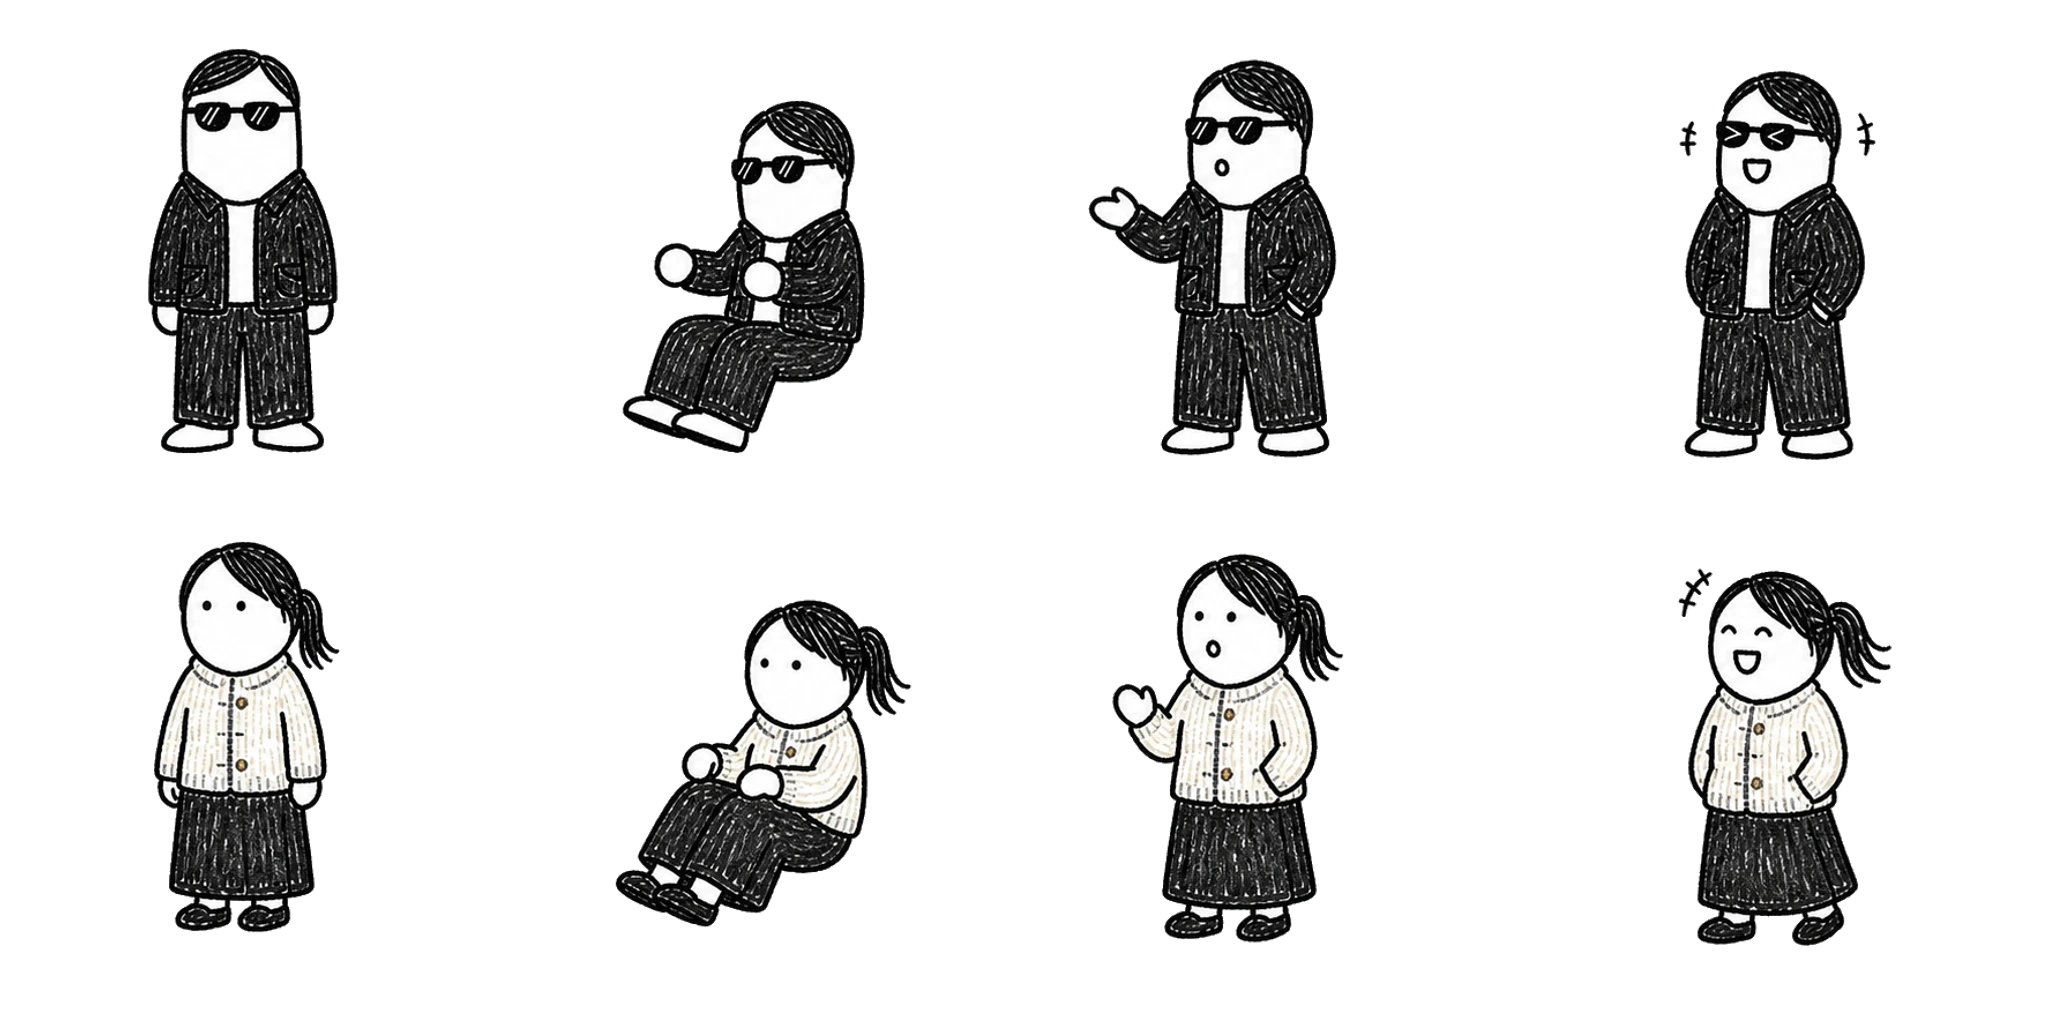
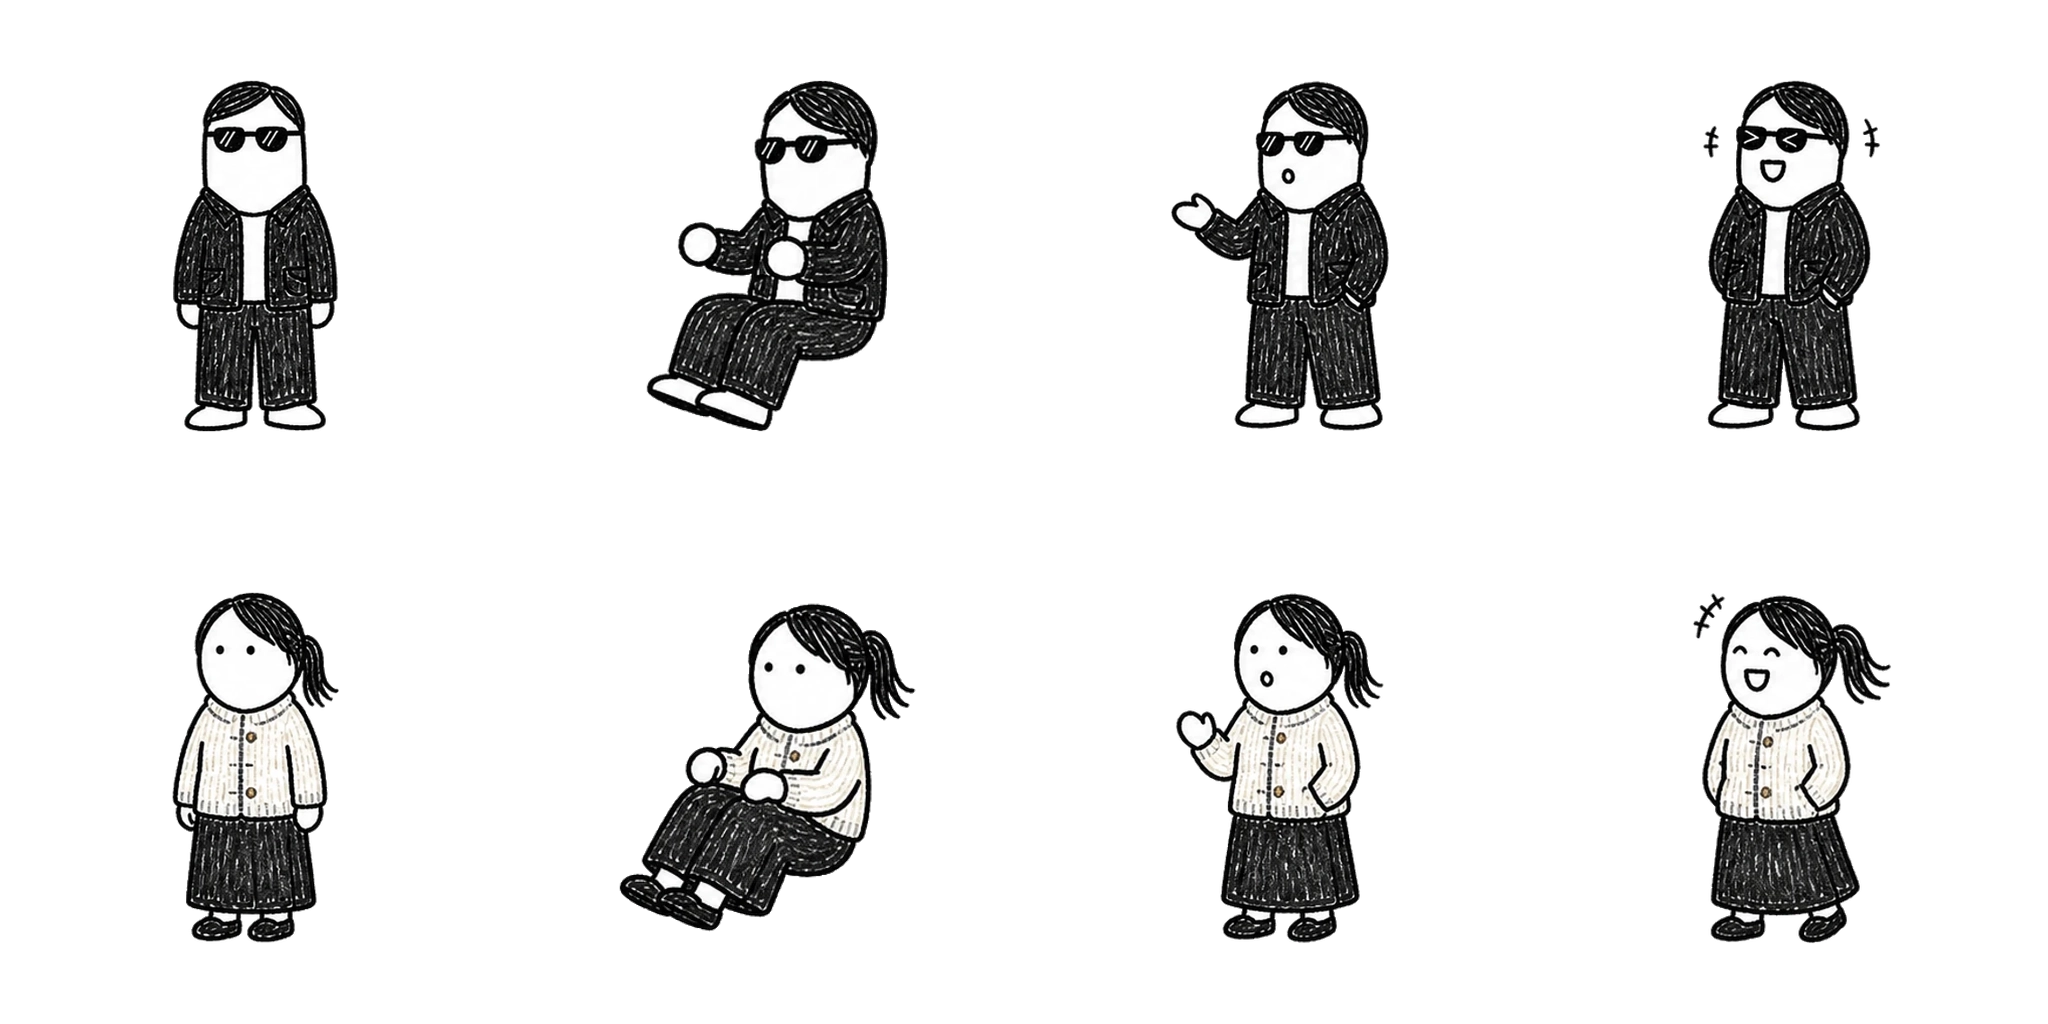
fix: enforce sprite cell padding

diff --git a/src/components/invitation/story/storyAssets.test.ts b/src/components/invitation/story/storyAssets.test.ts
@@ -38,6 +38,37 @@ const STYLE_BIBLE_FILES = [
   { src: "/story/doodle-v2/characters-wedding.webp", width: 2048, height: 1024, hasAlpha: true },
 ] as const;
 
+const SPRITE_CELL_SIZE = 512;
+const MINIMUM_SPRITE_PADDING = 80;
+
+function alphaBounds(
+  data: Buffer,
+  channels: number,
+  imageWidth: number,
+  column: number,
+  row: number,
+) {
+  let minX = SPRITE_CELL_SIZE;
+  let minY = SPRITE_CELL_SIZE;
+  let maxX = -1;
+  let maxY = -1;
+
+  for (let y = 0; y < SPRITE_CELL_SIZE; y++) {
+    for (let x = 0; x < SPRITE_CELL_SIZE; x++) {
+      const alphaIndex = ((row * SPRITE_CELL_SIZE + y) * imageWidth + column * SPRITE_CELL_SIZE + x) * channels + 3;
+      if (data[alphaIndex] === 0) continue;
+
+      minX = Math.min(minX, x);
+      minY = Math.min(minY, y);
+      maxX = Math.max(maxX, x);
+      maxY = Math.max(maxY, y);
+    }
+  }
+
+  if (maxX === -1 || maxY === -1) return undefined;
+  return { left: minX, top: minY, right: SPRITE_CELL_SIZE - 1 - maxX, bottom: SPRITE_CELL_SIZE - 1 - maxY };
+}
+
 test("every story asset exists under doodle-v2 and declares positive dimensions", () => {
   const ids = Object.keys(STORY_ASSETS);
 
@@ -74,5 +105,25 @@ test("style bible files retain their exact dimensions and alpha contract", async
     assert.equal(metadata.width, asset.width, `${asset.src} width`);
     assert.equal(metadata.height, asset.height, `${asset.src} height`);
     assert.equal(metadata.hasAlpha, asset.hasAlpha, `${asset.src} alpha`);
+  }
+});
+
+test("every character sprite cell keeps at least 80 pixels of transparent padding", async () => {
+  for (const src of ["/story/doodle-v2/characters-casual.webp", "/story/doodle-v2/characters-wedding.webp"] as const) {
+    const filePath = join(process.cwd(), "public", src.slice(1));
+    const { data, info } = await sharp(filePath).ensureAlpha().raw().toBuffer({ resolveWithObject: true });
+
+    assert.equal(info.width, SPRITE_CELL_SIZE * 4, `${src} sheet width`);
+    assert.equal(info.height, SPRITE_CELL_SIZE * 2, `${src} sheet height`);
+
+    for (let row = 0; row < 2; row++) {
+      for (let column = 0; column < 4; column++) {
+        const padding = alphaBounds(data, info.channels, info.width, column, row);
+        assert.ok(padding, `${src} cell ${column},${row} must contain a character`);
+        for (const [edge, pixels] of Object.entries(padding)) {
+          assert.ok(pixels >= MINIMUM_SPRITE_PADDING, `${src} cell ${column},${row} ${edge}: ${pixels}px`);
+        }
+      }
+    }
   }
 });
